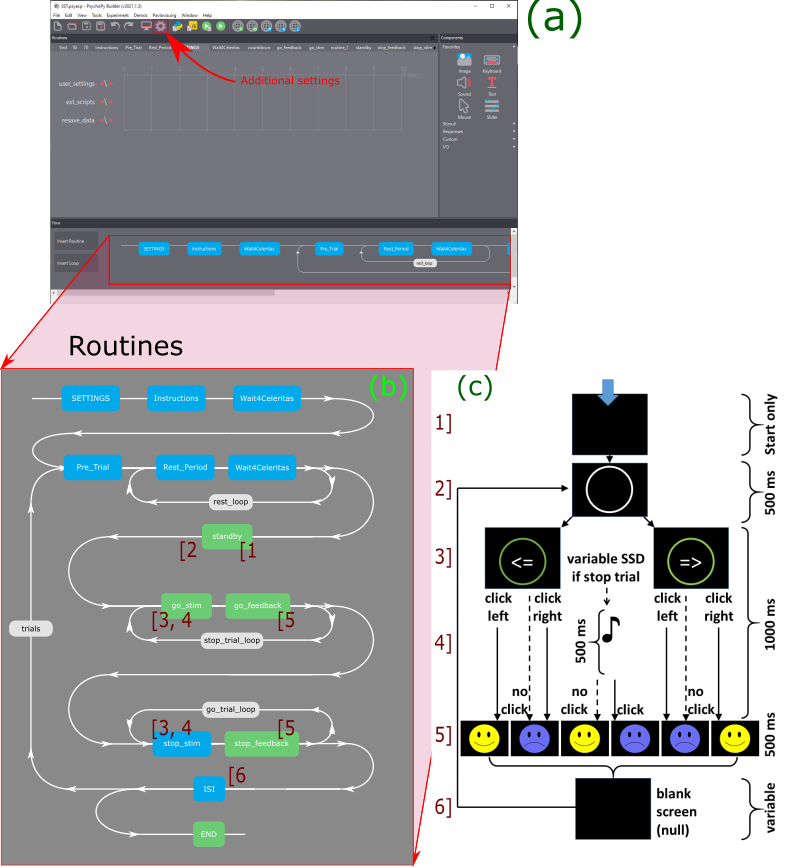
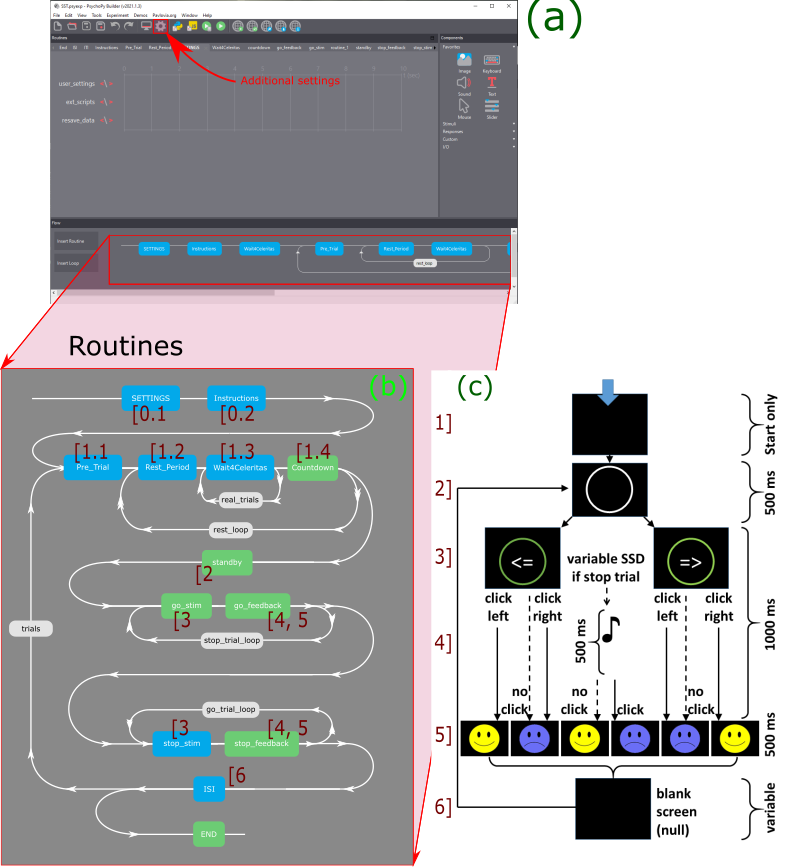
Updated wiki.md

diff --git a/doc/wiki.md b/doc/wiki.md
@@ -15,15 +15,18 @@ for each element of the flow chart (Figure 1 (c)) can be found.
 
 In Figure 1 (c) there are seven steps in a single loop of the task which have 
 been labelled 1 through to 7 respectively. These steps consist of: 
-    1. Variable subject wait time
+    1. Sequence start
     2. A subject attention focus circle
     3. Stimulus display
     4. Blank wait screen
 	5. Feedback display
-	6. 1000 ms of additional wait time
-Additionally, I will also discuss the conditions file which is used to 
-determine the number of blocks in a task, the trail types present in each 
-block, and the ratio of left to right arrows present in each block.
+	6. Variable subject wait time
+Additionally, I will also discuss the external functions (Subject GUI and sound 
+testing script) called prior to the sequence shown in Figure 1 and the 
+conditions file (which is used to determine the number of blocks in a task, 
+the trail types present in each block, and the ratio of left to right arrows 
+present in each block).
+
 Finally, and of some import, is the naming convention I use in this document.  
 The PsychoPy Builder structures tasks in three levels: Routines, Components, 
 and Properties (see Figure 2). A brief description of level is given below, 
@@ -39,7 +42,6 @@ standard folder path syntax to ensure uniqueness.
     Properties inside the PsychoPy Builder interface.
 </p>
 
-
 __Routine:__ 
 “An experiment consists of one or more Routines. A Routine might 
 specify the timing of events within a trial or the presentation of 
@@ -51,10 +53,12 @@ define the parameters of a stimulus or an input/output device” (excerpt from
 the PsychoPy webpage).
 
 __Property:__ 
-Properties are where the settings of a component are viewed and edited.
+Properties are where the settings of a component are viewed and edited. 
+These are accessed by clicking on the component in the builder.
 
- 
-## Section 01 – Variable Subject Wait Time, 1]:
+
+## Section 1 - Sequence Elements
+### 1.1 – Variable Subject Wait Time, 6]:
 This section has the subject wait for a duration which randomly sampled from 
 the logarithmic function
 <p align="center">
@@ -65,19 +69,23 @@ multiple of ISIfactor. Additionally, the scaling factor, *λ*, is chosen via
 *λ = meanISItime/1000*. Figure 3 shows an example of *10,000* samples 
 using *t(x) ∈ [0.5, 4]* ms,  *ISIfactor = 125* ms, and, 
 *meanISItime = 1000* ms.
-  
-Figure 3
-A “typical” sample set of the logarithmic function used to determine our 
-variable ISI times (*100,000* samples).
 
-### Builder implementation:
+
+![ISI values](doc/figures/ISIvalues.png?raw=true "ISI values")
+<p align="center">
+    Figure 3<br />  
+    A “typical” sample set of the logarithmic function used to determine our 
+    variable ISI times (*100,000* samples).
+</p>
+
+#### Builder implementation:
 The sections of code used to sample and implement said samples are located under:
 	'SETTINGS' -> "user_settings" -> ‘”Before Experiment”’
 	'Instructions' -> "run_on_start" -> ‘”Before Experiment”’ 
 	'Pre_Trial' -> "pre_trial_stim”  -> ‘”Begin Routine”’
 	'ISI' -> "blank_ISI_stim"
 
-#### 'SETTINGS' -> "user_settings" -> ‘”Before Experiment”’:
+##### 'SETTINGS' -> "user_settings" -> ‘”Before Experiment”’:
 Under Inter-Stimulus Interval settings, this code block holds the user 
 settings for the sampling of the log function above:
 ```python
@@ -88,43 +96,191 @@ ISImax      = 4000    # ms
 ISIfactor   = 125     # ms
 ```
 
-#### 'Instructions' -> "run_on_start" -> ‘”Before Experiment”’:
+##### 'Instructions' -> "run_on_start" -> ‘”Before Experiment”’:
 Under Functions, the python function `sample_logdist()` performs a single 
 sample of the above logarithmic function. Under `## Generating ISI times… `
 the number of trials being used in the experiment is determined and the 
 function `sample_logdist()` is called to generate an array of ISIs for each.
 
-#### 'Pre_Trial' -> "pre_trial_prep" -> ‘”Begin Routine”’:
+##### 'Pre_Trial' -> "pre_trial_prep" -> ‘”Begin Routine”’:
 Under the section `# Call ISI time` the current trial number is used to call 
 the appropriate ISI time so it may be used in the following Routine.
 
-#### 'ISI' -> "blank_ISI_stim":
+##### 'ISI' -> "blank_ISI_stim":
 This black polygon (which is invisible to the subject on the task’s black 
 background) displays for the duration called during the 'Pre_Trial' routine 
 above.
 
 
 
-## Section 02 – Subject attention focus circle, 2]:
-This
 
-### Builder implementation:
-The sections used to adjust the focus circles are located under:
+### 1.2 – Subject attention focus circle, 2]:
+The focus circle shown in Figure 1 (c) serves to draw the patient's attention 
+to the center of the screen before the stimulus is displayed.
+
+#### Builder implementation:
+The sections used to adjust the focus circle are located under:
 	'SETTINGS' -> "user_settings" -> ‘”Before Experiment”’
 	'Standby' -> "focus_circle"
 
-#### 'SETTINGS' -> "user_settings" -> ‘”Before Experiment”’:
-Under Stimulus and feedback images, this code block holds the user settings for the focus circles, direction stimulus (arrows), and the feedback images:
+##### 'SETTINGS' -> "user_settings" -> ‘”Before Experiment”’:
+Under Stimulus and feedback images, this code block holds the user settings for 
+the focus circles, direction stimulus (arrows), and the feedback images:
 ```python
 # Stimulus and feedback images:
-fb_size = 0.6675      
-arrowStimSize = 0.18  
-circle_size = 1.24  
+fb_size = 0.6675
+arrowStimSize = 0.18
+circle_size = 1.24
 circle_thickness = 3
 ```
 
-#### 'Standby' -> "focus_circle":
-Under 
+##### 'Standby' -> "focus_circle":
+The properties menu for the "focus_circle" object houses additional settings
+such as colour, screen position, and onset duration.
+
+
+
+
+
+### 1.3 – Subject stimulus, 3]:
+Following the focus stimulus, the circle changes to green and the participant is 
+presented with a left or right pointing arrow. The participant has 1 second to
+respond with a key press, where valid key presses are chosen from the 
+participant's handedness (see Chapter 2, section 1). 
+
+There are three notable sections in 'go_stim' and four in 'stop_stim'. These 
+are broken into:
+    I.   green focus circle
+    II.  arrow image
+    III. key press
+    IV.  stop_sound (exclusive to stop_stim)
+
+I: The green focus circle is simply a replica of the white focus circle from 2] 
+and serves as a visual que for the participant that they need to make a 
+response. 
+
+II: The arrow image is an on screen print of the correct response, `=>` or 
+`<=`. As was breifly mentioned in the ReadMe of this repository these arrows 
+are not pre-determined but generated at the very start of the experiment for 
+all blocks and trials. However the ratio of `<=` to `=>` in each block depends 
+on the `L2R_ratio` column of the `conditions.xlsx` file. If no `L2R_ratio` 
+column is present then the `BlockType` column is used with `practice` blocks to 
+*0.5* (or a *50:50* split) and stop blocks to a random ratio.
+
+III: From the moment the arrow stimuli appear PsychoPy will wait for a valid 
+keypress which will correspond to either *left* or *right*. Which keys are 
+valid depends on the subject's handedness. Once a key is pressed the 
+__Routine__ moves to the next __Routine__ (4], see section 1.4); removing the 
+stimuli and green circle in the process.
+
+IV: If the trail presented to the subject is a stop trial then a stop sound
+will play after the participant's SSD time has elapsed.
+
+#### I Builder implementation:
+I. The sections used to adjust the green focus circle are located under:
+	'SETTINGS' -> "user_settings" -> ‘”Before Experiment”’
+	'go_stim' -> "green_go_polygon"
+for go trials and 
+	'SETTINGS' -> "user_settings" -> ‘”Before Experiment”’
+	'stop_stim' -> "green_stop_polygon"
+for stop trials.
+
+##### 'SETTINGS' -> "user_settings" -> ‘”Before Experiment”’:
+These are the same settings outlined in section 1.2 above.
+
+##### 'go_stim' -> "green_go_polygon":
+The properties menu for the "green_go_polygon" polygon object houses additional 
+settings such as colour, screen position, and onset duration.
+
+##### 'stop_stim' -> "green_stop_polygon":
+The properties menu for the "green_stop_polygon" polygon object houses 
+additional settings such as colour, screen position, and onset duration.
+---
+
+
+#### II Builder implementation:
+II. The sections used to adjust the stimulus arrows are located under:
+	'Instructions' -> "run_on_start" -> ‘”Before Experiment”’
+	'Pre_Trial' -> "pre_trial_prep" -> ‘”Begin Routine”’
+	'go_stim' -> "arrow_stim_go"
+for go trials and 
+	'Instructions' -> "run_on_start" -> ‘”Before Experiment”’
+	'Pre_Trial' -> "pre_trial_prep" -> ‘”Begin Routine”’
+	'stop_stim' -> "arrow_stim_stop"
+for stop trials.
+
+##### 'Instructions' -> "run_on_start" -> ‘”Before Experiment”’:
+The code used to generated the left and right arrows can be found under 
+`## Generate Stim Arrows` which uses the function `gen_LR_array()`. Once 
+generated, the arrows are stored in the Python variable `direction`.
+
+##### 'Pre_Trial' -> "pre_trial_prep" -> ‘”Begin Routine”’:
+Under `# Call trial arrow` the current trial's arrow is called from the arrows
+stored in `direction` using the `current_trial` counter (which keeps track of 
+the total number of elapsed trials).
+
+Additonally, this code block is also where whether or not the next trial is a 
+Go trial or a Stop trial is determined (under: `# Check go/stop trial`).
+
+##### 'go_stim' -> "arrow_stim_go":
+The properties menu for the "arrow_stim_go" text object houses additional 
+settings such as font. Text size is included in 'SETTINGS' -> "user_settings" 
+-> ‘”Before Experiment”’ (see section 1.2 above).
+
+##### 'stop_stim' -> "arrow_stim_stop":
+The properties menu for the "arrow_stim_stop" text object houses additional 
+settings such as font. Text size is included in 'SETTINGS' -> "user_settings" 
+-> ‘”Before Experiment”’ (see section 1.2 above).
+---
+
+
+#### III Builder implementation:
+III. The section used to adjust the recording of participant's key presses are
+	'go_stim' -> "gokey_resp"
+for go trials and 
+	'stop_stim' -> "stopkey_resp"
+for stop trials.
+
+##### 'go_stim' -> "gokey_resp":
+The properties menu for the "gokey_resp" key-press object houses 
+additional settings such as duration, allowed keys, and whether or not to 
+force the end of the Routine on a key press.
+
+##### 'stop_stim' -> "stopkey_resp":
+The properties menu for the "stopkey_resp" key-press object houses 
+additional settings such as duration, allowed keys, and whether or not to 
+force the end of the Routine on a key press.
+---
+
+
+#### IV Builder implementation:
+IV. The sections that control the stop sound settings are found under:
+	'SETTINGS' -> "user_settings" -> ‘”Before Experiment”’
+	'stop_stim' -> "stop_sound"
+
+##### 'SETTINGS' -> "user_settings" -> ‘”Before Experiment”’:
+The default values for the frequency and volume of the stop signal sound are 
+found under `# Default sound values`. These can be overridden if the external 
+sound function `TestSound()` is called (see Chapter 2 Section 2).
+
+The delay before the stop sound is played following the arrow stimuli's onset
+is called from the participant's SSD staircases. These are initally generated 
+in 'Rest_Period' -> "block_prep" -> ‘”Begin Routine”’ under 
+`## Average the subject's last 16 RT's and calculate starting SSDs` and 
+actively managed in 'stop_feedback' -> "checkKeypress_stop" -> 
+‘”Begin Routine”’ (see 5] - section 1.4).
+
+
+##### 'stop_stim' -> "stop_sound":
+The properties menu for the "stop_sound" sound object houses the duration 
+setting and the shows the variable names corresponding to the settings 
+outlined  above.
+
+
+
+
+
+### 1.4 – ISI delay & feedback, 4, 5]:
 
 
 
@@ -132,4 +288,26 @@ Under
 
 
 
+
+
+
+
+
+## Section 2 - Pre-Sequence Functions
+Some functions aren't shown in the flow chart at the beginning of this 
+document (Figure 1). This is because they are called before the 
+builder's sequence is started. Presently there are only two such functions. 
+The GUI used to gather subject information and the the psychopy script for 
+testing the sound.
+
+
+### 2.1 Subject Information GUI
+The
+
+
+### 2.2 Test Sound Psychopy Script
+The
+
+##### 'SETTINGS' -> "ext_scripts" -> ‘”Begin Routine”’:
+T
 

diff --git a/README.md b/README.md
@@ -58,7 +58,7 @@ will not wait for a `=` keyboard press to trigger them and will not have stop
 trials. To indicated a block as a practise block simply insert the keyword 
 `practice` under the `BlockType` column, next to the first integer in the block.
 Any other keyword will be treated as "not-a-practise." So I like to use `fMRI`.
-Finally, L2R_ratio column is used to indicate the ratio of left stimuli to right 
-stimuli you would like to appear during each block. Leaving this column empty 
-will default practise blocks to 0.5 (or a 50:50 split) and stop blocks to a 
-random ratio.
+Finally, the `L2R_ratio` column is used to indicate the ratio of left stimuli 
+to right stimuli you would like to appear during each block. Leaving this 
+column empty will default practise blocks to *0.5* (or a *50:50* split) and 
+stop blocks to a random ratio.
